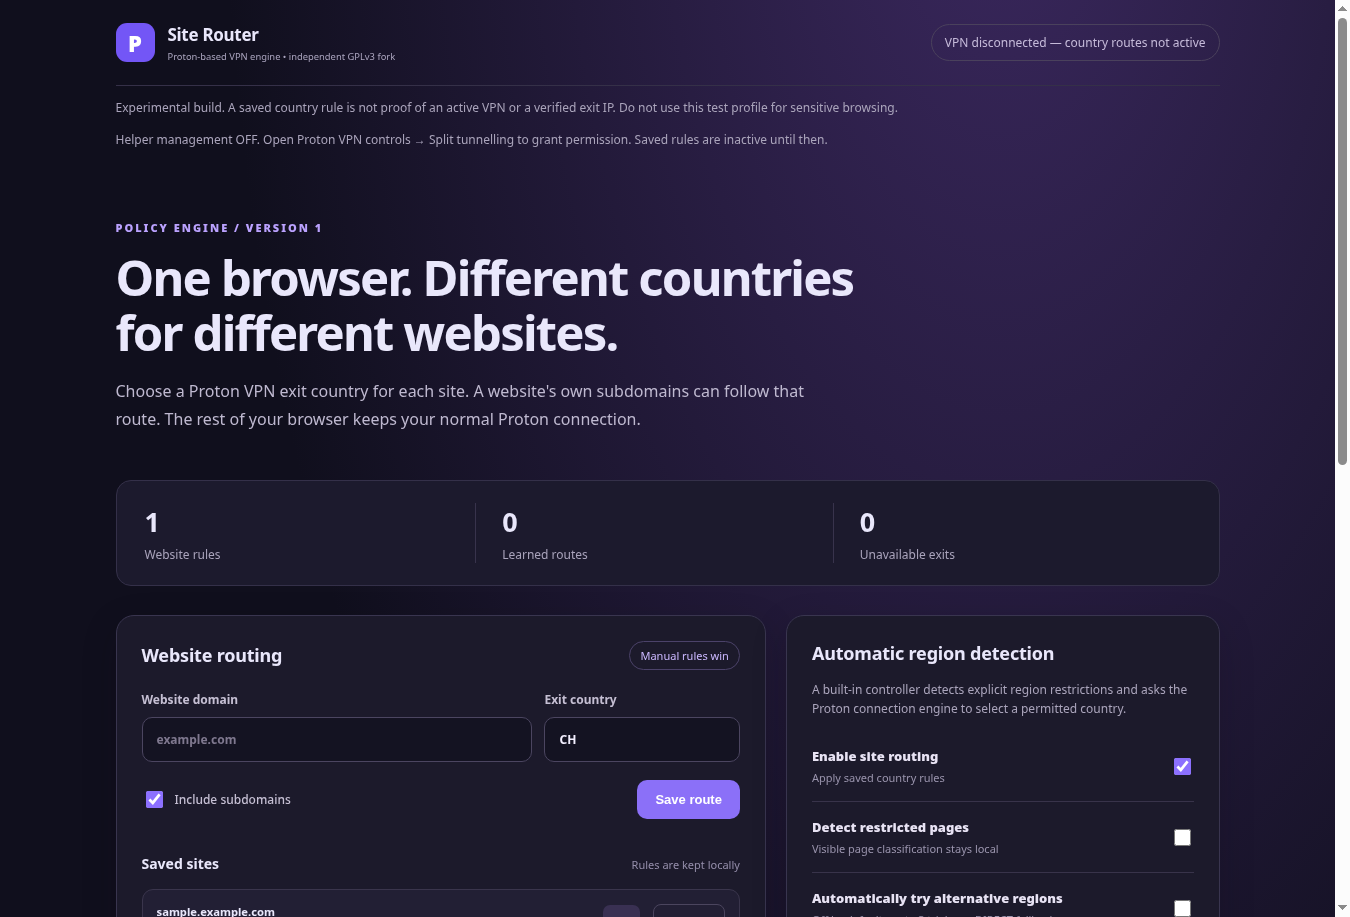
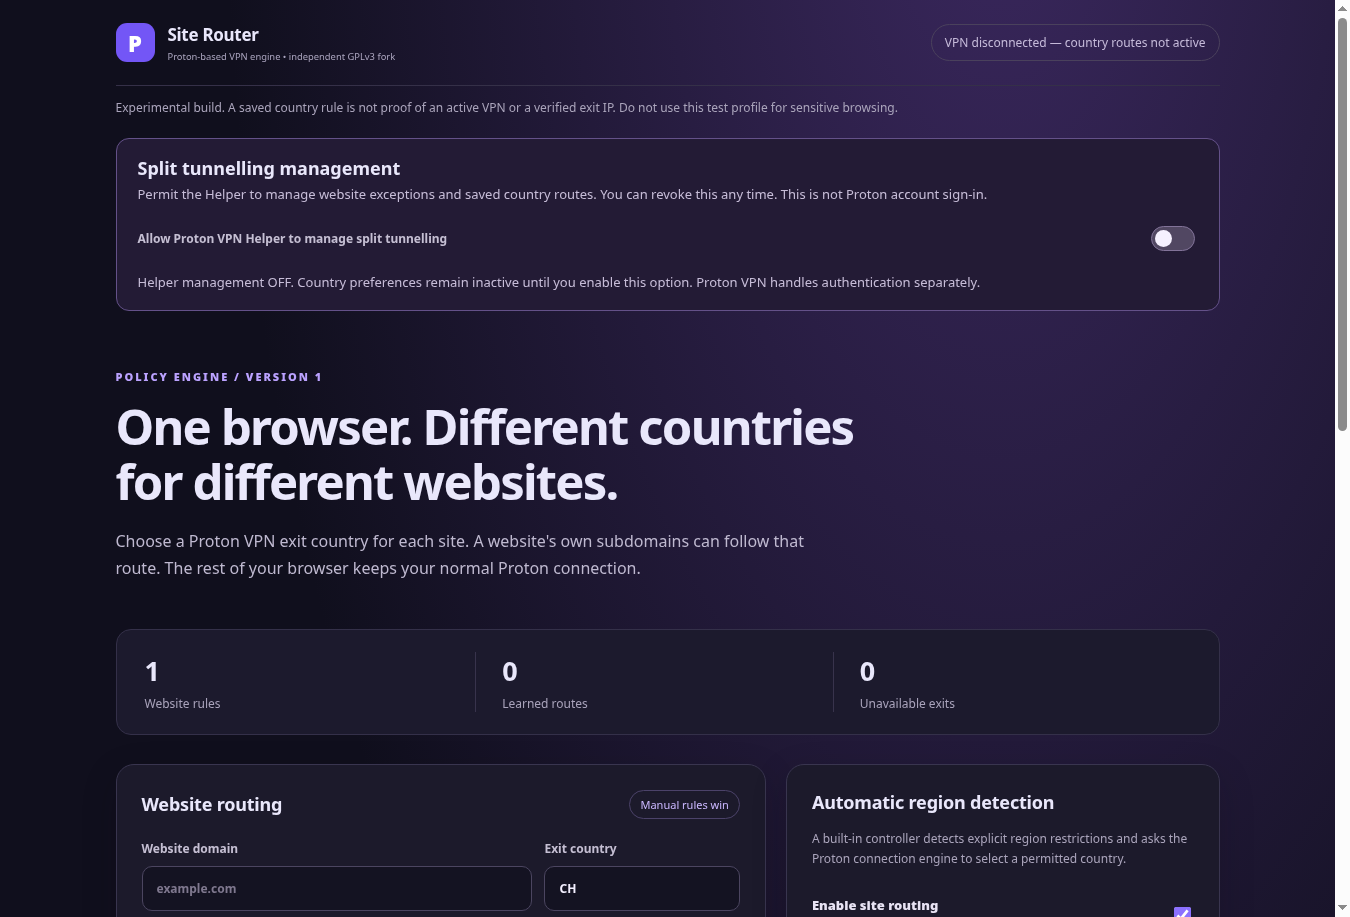
fix: make Helper split permission visible before Proton sign-in
Confirmed official Proton extension cannot display Helper controls; expose locally scoped consent in the unofficial fork's signed-out settings path. Real Chromium tests validate sign-in independent grant/revoke and two-way state. Live VPN login remains unverified.

diff --git a/source/js/siteRouter/options.ts b/source/js/siteRouter/options.ts
@@ -1,4 +1,4 @@
-import {SPLIT_CONSENT_KEY,hasSplitConsent} from './splitConsent';
+import {SPLIT_CONSENT_KEY,hasSplitConsent,setSplitConsent} from './splitConsent';
 import {DEFAULT_POLICY, STORE_KEY, validatePolicy, normalizeDomain, normalizeCountry,
 	type SiteRule, type SiteRouterPolicy} from './policy';
 
@@ -60,9 +60,11 @@ interface VpnStatus {
 	configured?: number;
 }
 async function refreshDelegation(): Promise<void> {
-	byId('delegation-status').textContent = (await hasSplitConsent())
-		? 'Helper management allowed from Proton VPN controls → Split tunnelling. Website routes may be applied when Proton is connected.'
-		: 'Helper management OFF. Open Proton VPN controls → Split tunnelling to grant permission. Saved rules are inactive until then.';
+	const allowed=await hasSplitConsent().catch(()=>false);
+	byId<HTMLInputElement>('helper-consent-switch').checked=allowed;
+	byId('delegation-status').textContent=allowed
+		? 'Helper management allowed. Proton login and VPN connection are still required before country routes can work.'
+		: 'Helper management OFF. Country preferences remain inactive until you enable this option. Proton VPN handles authentication separately.';
 }
 async function refreshVpnStatus(): Promise<void> {
 	const status = byId('connection-status');
@@ -86,6 +88,14 @@ async function refreshVpnStatus(): Promise<void> {
 }
 async function setup() {
 	render(await fetchPolicy());
+	byId<HTMLInputElement>('helper-consent-switch').addEventListener('change',(event)=>{
+		const input=event.currentTarget as HTMLInputElement;
+		const requested=input.checked;
+		input.disabled=true;
+		void setSplitConsent(requested).catch(()=>{
+			notice('Permission could not be changed. No new access granted.');
+		}).finally(()=>{input.disabled=false;void refreshDelegation();});
+	});
 	byId<HTMLFormElement>('add-rule').addEventListener('submit', (ev) => {
 		ev.preventDefault();
 		void (async () => {

diff --git a/source/css/site-router.css b/source/css/site-router.css
@@ -469,3 +469,72 @@ a:focus-visible {
 		width: 100%;
 	}
 }
+
+/* Explicit, account-independent local delegation permission. */
+.consent-panel {
+  display: grid;
+  gap: 10px;
+  padding: 17px 21px;
+  margin-top: 20px;
+  border: 1px solid #645189;
+  border-radius: 13px;
+  background: #231b35;
+}
+
+.consent-panel h2 {
+  margin: 0 0 5px;
+  font-size: 18px;
+}
+
+.consent-panel p {
+  margin: 0;
+  color: #c7bdd8;
+  font-size: 13px;
+  line-height: 1.5;
+}
+
+.consent-toggle {
+  display: flex;
+  gap: 18px;
+  align-items: center;
+  justify-content: space-between;
+  padding: 9px 0;
+  font-weight: 650;
+}
+
+#helper-consent-switch {
+  appearance: none;
+  position: relative;
+  flex: none;
+  width: 44px;
+  height: 25px;
+  border: 1px solid #827399;
+  border-radius: 15px;
+  background: #514762;
+  cursor: pointer;
+}
+
+#helper-consent-switch::after {
+  content: '';
+  position: absolute;
+  top: 3px;
+  left: 3px;
+  width: 17px;
+  height: 17px;
+  border-radius: 50%;
+  background: #f6f1ff;
+  transition: transform 120ms ease;
+}
+
+#helper-consent-switch:checked {
+  background: #7755ec;
+}
+
+#helper-consent-switch:checked::after {
+  transform: translateX(18px);
+}
+
+#helper-consent-switch:focus-visible {
+  outline: 2px solid #cbb4fa;
+  outline-offset: 4px;
+}

diff --git a/source/site-router.html b/source/site-router.html
@@ -14,7 +14,16 @@
   </header>
   <main>
    <p class="subtle" role="note">Experimental build. A saved country rule is not proof of an active VPN or a verified exit IP. Do not use this test profile for sensitive browsing.</p>
-   <p class="subtle" id="delegation-status" role="status" aria-live="polite">Checking Helper management permission…</p>
+   <section class="consent-panel" aria-labelledby="consent-heading">
+     <div><h2 id="consent-heading">Split tunnelling management</h2>
+       <p>Permit the Helper to manage website exceptions and saved country routes. You can revoke this any time. This is not Proton account sign-in.</p>
+     </div>
+     <label class="consent-toggle" for="helper-consent-switch">
+       <span>Allow Proton VPN Helper to manage split tunnelling</span>
+       <input id="helper-consent-switch" type="checkbox" aria-describedby="delegation-status">
+     </label>
+     <p class="subtle" id="delegation-status" role="status" aria-live="polite">Checking Helper management permission…</p>
+   </section>
    <section class="hero">
     <span class="eyebrow">POLICY ENGINE / VERSION 1</span>
     <h1>One browser. Different countries for different websites.</h1>

diff --git a/source/js/siteRouter/protonConsentUi.ts b/source/js/siteRouter/protonConsentUi.ts
@@ -3,13 +3,17 @@ import {SPLIT_CONSENT_KEY,hasSplitConsent,setSplitConsent} from './splitConsent'
 import {STORE_KEY} from './policy';
 
 /** Shares precisely the same permission with the Helper toolbar.
- * Delegation can only be granted here, on Proton's own split-tunnelling page.
+ * Delegation can also be granted from the extension's advanced settings page
+ * when the account sign-in view prevents access to Proton's normal controls.
  */
 export function installProtonSplitConsentUi(root:ParentNode=document):void {
   const toggle=root.querySelector<HTMLInputElement>('#helper-manage-split');
   const status=root.querySelector<HTMLElement>('#helper-delegation-status');
   const splitPage=root.querySelector<HTMLElement>('[data-page="split-tunneling"]');
   const open=root.querySelector<HTMLButtonElement>('#helper-manage-open');
+  root.querySelector<HTMLButtonElement>('#helper-open-signedout-settings')?.addEventListener('click',()=>{
+    void chrome.tabs.create({url:chrome.runtime.getURL('site-router.html')});
+  });
   if (!toggle || !status) return;
   let updating=false;
   let allowedNow=false;

diff --git a/source/js/siteRouter/splitConsent.ts b/source/js/siteRouter/splitConsent.ts
@@ -1,6 +1,6 @@
 /** User-controlled delegation, stored in this *one* Proton-derived extension.
  * Not an OAuth token, account permission, or another extension's session.
- * Off by default. Only UI of Proton's own split-tunnelling page may grant it.
+ * Off by default. Grant is user-driven from an extension-owned settings screen, never a content script or background event.
  */
 export const SPLIT_CONSENT_KEY = 'protonVpnHelperManageSplitTunnelingV1';
 export async function hasSplitConsent():Promise<boolean> {

diff --git a/source/css/popup.scss b/source/css/popup.scss
@@ -2234,3 +2234,21 @@ body:not(.auto-theme, .light-theme) {
   opacity: 0.45;
   pointer-events: none;
 }
+
+.helper-prelogin-settings {
+  display: block;
+  max-width: 315px;
+  margin: 22px auto 0;
+  padding: 10px 12px;
+  border: 1px solid #75619d;
+  border-radius: 8px;
+  color: #d9c7ff;
+  font-size: 12px;
+  text-align: center;
+  line-height: 1.35;
+  cursor: pointer;
+}
+.helper-prelogin-settings:hover,
+.helper-prelogin-settings:focus-visible {
+  background: #4c386b;
+}

diff --git a/source/popup.html b/source/popup.html
@@ -33,7 +33,9 @@
 					</a>
 				</div>
 			</div>
+		<button type="button" id="helper-open-signedout-settings" class="helper-prelogin-settings">Configure Helper split tunnelling (no Proton sign-in required)</button>
 		</div>
+
 		<div id="logged-view">
 			<header class="top-bar">
 				<span class="text-intense" style="font-size:13px;font-weight:700" aria-label="Proton VPN Helper, unofficial">Proton VPN Helper <small style="font-size:9px;opacity:.68">(unofficial)</small></span>

diff --git a/tests/toolbar_integration.py b/tests/toolbar_integration.py
@@ -93,7 +93,40 @@ def main():
             denied=js("return chrome.runtime.sendMessage({type:'protonSiteRouterResolveSplit',domain:'sample.example.com'})")
             assert denied['ok'] is False and 'Grant Helper management' in denied['reason'],denied
             print('PASS backend rejects direct split-list mutation messages without consent')
-            # Grant only from original Proton split-tunnelling settings UI.
+            # The fork's original controls require account sign-in; local
+            # Helper permission must remain discoverable *without* it.
+            wd('POST','/url',{'url':f'chrome-extension://{EXT_ID}/popup.html'})
+            for _ in range(55):
+                if js("return !!document.querySelector('#helper-open-signedout-settings')"):break
+                time.sleep(.15)
+            else:raise AssertionError('Signed-out Proton view omitted Helper settings link')
+            js("document.querySelector('#helper-open-signedout-settings').click();return true;")
+            for _ in range(40):
+                tabs=js("return chrome.tabs.query({})")
+                if any(tab.get('url','').endswith('/site-router.html') for tab in tabs):break
+                time.sleep(.15)
+            else:raise AssertionError('Signed-out settings link did not open Helper options')
+            wd('POST','/url',{'url':f'chrome-extension://{EXT_ID}/site-router.html'})
+            for _ in range(40):
+                if js("return !!document.querySelector('#helper-consent-switch')"):break
+                time.sleep(.15)
+            else:raise AssertionError('Consent control not visible in unauthenticated Helper settings')
+            assert js("return document.querySelector('#helper-consent-switch').checked") is False
+            js("document.querySelector('#helper-consent-switch').click();return true;")
+            for _ in range(40):
+                flag=js("return chrome.storage.local.get(arguments[0]).then(v=>v[arguments[0]])",consent_key)
+                if flag is True:break
+                time.sleep(.15)
+            else:raise AssertionError('Explicit settings-page consent did not persist')
+            assert 'management allowed' in js("return document.querySelector('#delegation-status').textContent").lower()
+            js("document.querySelector('#helper-consent-switch').click();return true;")
+            for _ in range(40):
+                flag=js("return chrome.storage.local.get(arguments[0]).then(v=>v[arguments[0]])",consent_key)
+                if flag is False:break
+                time.sleep(.15)
+            else:raise AssertionError('Advanced settings consent revocation failed')
+            print('PASS signed-out Proton account screen links to independently configurable Helper permission')
+            # The original Proton-style Split tunnelling panel also supports the same switch.
             wd('POST','/url',{'url':f'chrome-extension://{EXT_ID}/popup.html'})
             for _ in range(60):
                 if js("return !!document.querySelector('#helper-manage-split')"):break

diff --git a/README.md b/README.md
@@ -34,7 +34,7 @@ Proton's existing engine remains responsible for authentication, server eligibil
 
 *Real Chromium screenshot, not a mock-up or proof of a Swiss exit IP.*
 
-**First-time setup — give permission in the Proton controls:** Open **Proton VPN controls → Settings → Split tunnelling** and turn on **Allow Proton VPN Helper to manage split tunnelling**. This starts **off** and is a local, reversible permission: without it the Helper cannot change split-tunnelling exceptions, apply per-site country routing or retry countries automatically. The original Proton page and Helper mirror permission and rule changes in both directions. [Consent and Proton account walkthrough](docs/CONSENT_AND_ACCOUNT.md).
+**First-time setup — before Proton sign-in:** Open **All website rules** from the Helper toolbar, or choose **Configure Helper split tunnelling** on its Proton sign-in screen. Use **Allow Proton VPN Helper to manage split tunnelling** at the top of the settings page. You can also access the same switch in **Proton VPN controls → Settings → Split tunnelling** once signed in. It starts **off** and is a local, reversible permission; without it the Helper cannot change split-tunnelling exceptions, apply per-site country routing or retry countries automatically. The two views mirror permission and rule changes in both directions. [Consent and Proton account walkthrough](docs/CONSENT_AND_ACCOUNT.md).
 
 This consent **does not sign into Proton or share the official extension's private account session**. Use Proton's own account sign-in within the unofficial combined extension; authentication with its independent extension ID is still unverified.
 
@@ -60,7 +60,7 @@ If Proton already **excludes** the exact website, the save button explicitly off
    ```
 
 2. Open a **separate test profile** in Chrome, Brave, Chromium or Vivaldi. Visit its Extensions page (`chrome://extensions`, `brave://extensions` or `vivaldi://extensions`). Enable **Developer mode**, choose **Load unpacked**, and select this project's `distribution/` folder. Do not run two VPN extensions that control the proxy in the same profile.
-3. In the Helper toolbar, choose **Proton VPN controls → Settings → Split tunnelling** and explicitly enable **Allow Proton VPN Helper to manage split tunnelling**. This is a local permission, not a Proton account login.
+3. Before signing into Proton, choose **All website rules** from the Helper toolbar (or **Configure Helper split tunnelling** on the Proton sign-in screen) and enable **Allow Proton VPN Helper to manage split tunnelling**. If already signed in, the same switch also appears under **Proton VPN controls → Settings → Split tunnelling**. This is local permission, not an account login.
 4. Return to the Helper toolbar or press **Alt+Shift+Y** while viewing a website. Select a country and save. The popup explains conflicting Proton split-tunnelling rules; **All website rules** opens the advanced editor.
 
 These steps demonstrate **saving and managing preferences**. They do not prove that the modified extension can log in to Proton or route network traffic safely. Do not enable automatic switching for real browsing until the remaining checks are complete.

diff --git a/docs/CONSENT_AND_ACCOUNT.md b/docs/CONSENT_AND_ACCOUNT.md
@@ -11,10 +11,9 @@ Proton's browser split tunnelling normally offers **Include** and **Exclude** ru
 These steps apply to **the unofficial combined Proton VPN Helper extension**, not the unmodified official Proton VPN extension.
 
 1. Open the Helper toolbar popup using Alt+Shift+Y or its browser icon.
-2. Select **Proton VPN controls** to open the original Proton-style connection manager within the combined extension.
-3. Go to **Settings → Split tunnelling**.
-4. Enable **Allow Proton VPN Helper to manage split tunnelling**.
-5. Return to the Helper toolbar to assign a VPN country to a website.
+2. Before Proton sign-in, select **All website rules**, then use **Allow Proton VPN Helper to manage split tunnelling** at the top of the Helper settings page. Alternatively, the signed-out Proton controls offer **Configure Helper split tunnelling**, which leads to that same page.
+3. If you are already signed into the combined fork, you can also enable that permission from **Proton VPN controls → Settings → Split tunnelling**.
+4. Return to the Helper toolbar to assign a country to a website. A real Proton sign-in and connection are still required before any actual VPN routing works.
 
 The setting starts **off**. While off, the Helper cannot apply site-country routes, modify Proton's Include/Exclude list or run automatic country retries. Saved rules remain available but inactive. Revocation restores the original editor.
 

diff --git a/README_ALL_IN_ONE.md b/README_ALL_IN_ONE.md
@@ -48,3 +48,7 @@ The shortcut checks existing Proton split tunnelling: one explicit click can rem
 ## Reversible Proton Split tunnelling delegation
 
 Open Proton VPN controls within this fork, go to Settings → Split tunnelling, and opt into **Allow Proton VPN Helper to manage split tunnelling**. Only then can the Helper change individual Include/Exclude entries and apply per-site country preferences. The switch starts off, retains saved rules when revoked, restores the original editor, and updates both views live. This is not account OAuth; the account sign-in step is separate. See docs/CONSENT_AND_ACCOUNT.md.
+
+## Finding the switch before Proton sign-in
+
+The Proton-style connection and settings menu is available after Proton account sign-in, which may not be possible yet with this unofficial extension ID. To configure Helper permissions **without signing in**, open **All website rules** from the Helper toolbar or **Configure Helper split tunnelling** on the signed-out Proton screen. The same reversible switch is at the top of the Helper settings page. Granting it does **not** sign into Proton or activate VPN protection.

diff --git a/docs/ROUTING_TESTS.md b/docs/ROUTING_TESTS.md
@@ -46,3 +46,7 @@ Run `python3 tests/toolbar_integration.py`. Isolated Chromium verifies the toolb
 ## Local permission and two-way control
 
 The country-routing controller also requires the user-controlled delegation toggle within the Proton-style Split tunnelling settings. While off, it does not apply per-site routes, and the original Proton editor is authoritative. The permission and country rule counts are mirrored in both directions using extension-local storage; no Proton session secrets are copied. The real-browser consent and revocation workflow is verified in tests/toolbar_integration.py. This is documented separately in CONSENT_AND_ACCOUNT.md.
+
+## Unauthenticated setup reachability
+
+The test now opens the combined extension's signed-out Proton page, clicks **Configure Helper split tunnelling**, finds its independent consent control in **All website rules**, grants and revokes it by explicit clicks, and checks the same state on the Proton-style Split tunnelling page. This avoids requiring an unverified Proton sign-in to see and configure the Helper's local permission.
